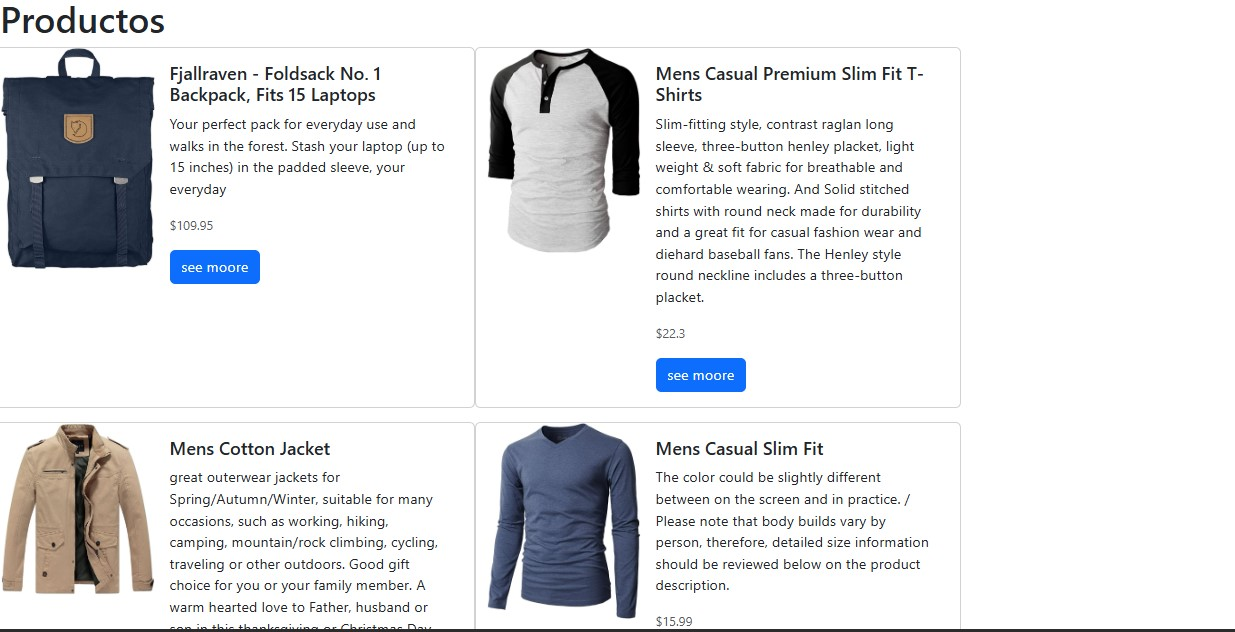
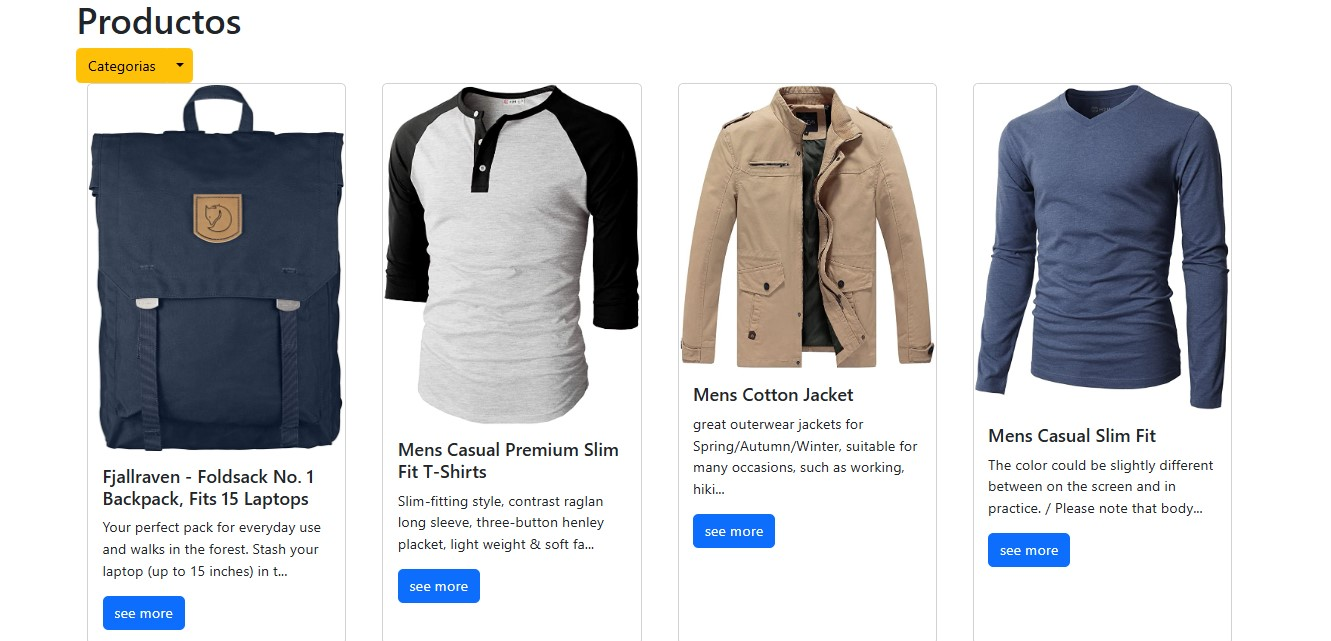
se hacen las categorias

diff --git a/js/main.js b/js/main.js
@@ -1,78 +1,105 @@
-
 const main = document.getElementsByTagName("main").item(0);
-let mainPronds = document.getElementById("mainPronds");
-const URLMain = "https://fakestoreapi.com/products/"; //así debera ser el url
+const URLMain = "https://fakestoreapi.com/products/";
+const URLCategories = "https://fakestoreapi.com/products/categories/";
+const mainProds = document.getElementById("mainProds");
+const ulMenu = document.getElementById("ulMenu");
 
-
-function getData() {
-    const options = {"method" : "get"};
-    fetch(URLMain, options)    //fetch regresa una promesa
-
-        .then((response) => {
-            console.log(response);
-            response.json().then((res) => { // se convierte a JSON y manda una promesa
-                // console.log(res.length); //20
-                // console.log(res[5].title);
-                // console.log(res[5].price);
+function getData(cat) {
+    fetch(URLMain + cat)
+        .then((respose) => {
+            respose.json().then((res) => {
+                console.log(res.length);
                 createCards(res);
             });
+            console.log(respose);
         })
         .catch((err) => {
             main.insertAdjacentHTML("beforeend",
-                `<div class = "alert alert-danger" role="alert">
-            ${err.message0}
-            </div`);
-
+                `<div> class = "alert alert-danger" role = "alert">
+            ${err.message}
+            </div>`
+            );
         });
-
-
 }//getData
 
-getData(); //llamada a la funcion getData();
-
+function getCategories() {
+    const options = { "method": "GET" };
+    fetch(URLMain+"categories/", options)
+        .then((respose) => {
+            respose.json().then((res) => {
+                res.forEach((cat) => {
+                    ulMenu.insertAdjacentHTML("afterbegin",
+                        `
+                        <li>
+                            <a class = "dropdown-item" onclick = "getData('category/${cat.replace("'", "%27")}');" href = "#">
+                                ${cat}
+                            </a>
+                        </li>
+                        `
+                    );
+                })
+            });
+            console.log(respose);
+        })
+        .catch((err) => {
+            main.insertAdjacentHTML("afterbegin",
+                `<div> class = "alert alert-danger" role = "alert">
+            ${err.message}
+            </div>`
+            );
+        });
+}//getCategories
 
 function createCards(prods) {
+    
+    mainProds.innerHTML="";
+    
     prods.forEach((res) => {
-        main.insertAdjacentHTML("beforeend",
-            `<div class="card mb-3" style="max-width: 540px;">
-              <div class="row g-0">
-                <div class="col-md-4">
-                  <img src=${res.image} class="img-fluid rounded-start" alt=${res.title}>
-                </div>
-                <div class="col-md-8">
-                  <div class="card-body">
+        mainProds.insertAdjacentHTML("beforeend",
+            `
+            <div class="card" style="width: 18rem;">
+                <img class="card-img-top" src="${res.image}" alt="${res.title}">
+                <div class="card-body">
                     <h5 class="card-title">${res.title}</h5>
-                    <p class="card-text">${res.description}</p>
-                    <p class="card-text"><small class="text-body-secondary">$${res.price}</small></p>
+                    <p class="card-text">${res.description.slice(0, 100)}...</a>
+                    <p></p>
 
-                    
                     <!-- Button trigger modal -->
-                    <button type="button" class="btn btn-primary" data-bs-toggle="modal" data-bs-target="#exampleModal">
-                    see moore
-                    </button>
-
-                    <!-- Modal -->
-
-                    <div class="modal fade" id="exampleModal" tabindex="-1" aria-labelledby="exampleModalLabel" aria-hidden="true">
-                    <div class="modal-dialog">
-                    <div class="modal-content">
-                    <div class="modal-header">
-                    <h1 class="modal-title fs-5" id="exampleModalLabel">${res.title}</h1>
-                    <button type="button" class="btn-close" data-bs-dismiss="modal" aria-label="Close"></button>
-                    </div>
-                    <div class="modal-body">
-                    ${res.description} </br>
-                    $${res.price}
-                    </div>
-                    <div class="modal-footer">
-                    <button type="button" class="btn btn-secondary" data-bs-dismiss="modal">Close</button>
-                    </div>
-                    </div>
-                    </div>
-                    </div>
-                  </div>
+                        <button type="button" class="btn btn-primary" data-bs-toggle="modal" data-bs-target="#${res.id}Modal">
+                            see more
+                        </button>
                 </div>
-              </div>
-            </div>`);
+            </div>
+
+            <!-- Modal -->
+            <div class="modal fade" id="${res.id}Modal" tabindex="-1" role="dialog" aria-labelledby="${res.id}ModalLabel" aria-hidden="true">
+                <div class="modal-dialog" role="document">
+                    <div class="modal-content">
+                        <div class="modal-header">
+                            <h5 class="modal-title" id="${res.id}ModalLabel">Modal title</h5>
+                            <button type="button" class="close" data-dismiss="modal" aria-label="Close">
+                                <span aria-hidden="true">&times;</span>
+                            </button>
+                        </div>
+                        <div class="modal-body">
+                            ${res.description}
+                        </div>
+                        <div class="modal-footer">
+                            <button type="button" class="btn btn-secondary" data-bs-dismiss="modal">Close</button>
+                            <button type="button" class="btn btn-primary">Save changes</button>
+                        </div>
+                    </div>
+                </div>
+            </div>
+            
+            `
+        );
     });
-}
+}//createCards
+
+getData("");// se llama a la función getData
+getCategories();  // se llama a la funcion getCategories
+
+
+
+

diff --git a/index.html b/index.html
@@ -1,27 +1,48 @@
-<!doctype html>
+<!DOCTYPE html>
 <html lang="en">
 
 <head>
-  <meta charset="utf-8">
-  <meta name="viewport" content="width=device-width, initial-scale=1">
-  <title>Productos</title>
-  <link href="https://cdn.jsdelivr.net/npm/bootstrap@5.3.5/dist/css/bootstrap.min.css" rel="stylesheet"
-    integrity="sha384-SgOJa3DmI69IUzQ2PVdRZhwQ+dy64/BUtbMJw1MZ8t5HZApcHrRKUc4W0kG879m7" crossorigin="anonymous">
+    <meta charset="UTF-8">
+    <meta name="viewport" content="width=device-width, initial-scale=1.0">
+    <link href="https://cdn.jsdelivr.net/npm/bootstrap@5.3.5/dist/css/bootstrap.min.css" rel="stylesheet"
+        integrity="sha384-SgOJa3DmI69IUzQ2PVdRZhwQ+dy64/BUtbMJw1MZ8t5HZApcHrRKUc4W0kG879m7" crossorigin="anonymous">
+    <title>Productos</title>
 </head>
 
 <body>
 
-  <main class="row" class="container">
-    <h1>Productos</h1>
-  
-  </main>
-  
+
+    <main class="container">
+        <h1>Productos</h1>
+
+        <!-- Example single danger button -->
+        <div class="btn-group">
+            <button type="button" class="btn btn-warning">Categorias </button>
+            <button type="button" class="btn btn-warning dropdown-toggle dropdown-toggle-split" data-bs-toggle="dropdown" aria-expanded="false">
+                <span class="visually-hidden">Toggle Dropdown</span>
+            </button>
+            <ul class="dropdown-menu" id="ulMenu">
+                <li>
+                    <hr class="dropdown-divider">
+                </li>
+                <li><a class="dropdown-item" href="#">Todas</a></li>
+            </ul>
+        </div><!--btn-group-->
+
+        <div style="display: flex; justify-content: center;">
+            <div id="mainProds" style="display: grid; grid-template-columns: repeat(4, 1fr); gap: 40px;">
+
+            </div>
+        </div>
+
+    </main>
 
 
-  <script src="https://cdn.jsdelivr.net/npm/bootstrap@5.3.5/dist/js/bootstrap.bundle.min.js"
-    integrity="sha384-k6d4wzSIapyDyv1kpU366/PK5hCdSbCRGRCMv+eplOQJWyd1fbcAu9OCUj5zNLiq"
-    crossorigin="anonymous"></script>
-  <script src="/js/main.js"></script>
+
+    <script src="https://cdn.jsdelivr.net/npm/bootstrap@5.3.5/dist/js/bootstrap.bundle.min.js"
+        integrity="sha384-k6d4wzSIapyDyv1kpU366/PK5hCdSbCRGRCMv+eplOQJWyd1fbcAu9OCUj5zNLiq"
+        crossorigin="anonymous"></script>
+    <script src="./js/main.js"></script>
 </body>
 
 </html>

diff --git a/README.md b/README.md
@@ -1,7 +1,6 @@
 # Promesas
 ## Ejercicio con Función fetch()
 
----
 
 La función fetch() devuelve una promesa que se cumple con un objeto response que representa la respuesta del servidor. En este ejercicio, se hace una funcion getData(); ahí se establece fetch(), se toma una URLMain = "https://fakestoreapi.com/products/" se convierte a un document JSON y se puede manipular el arreglo de 20 elementos de esa URL
 
